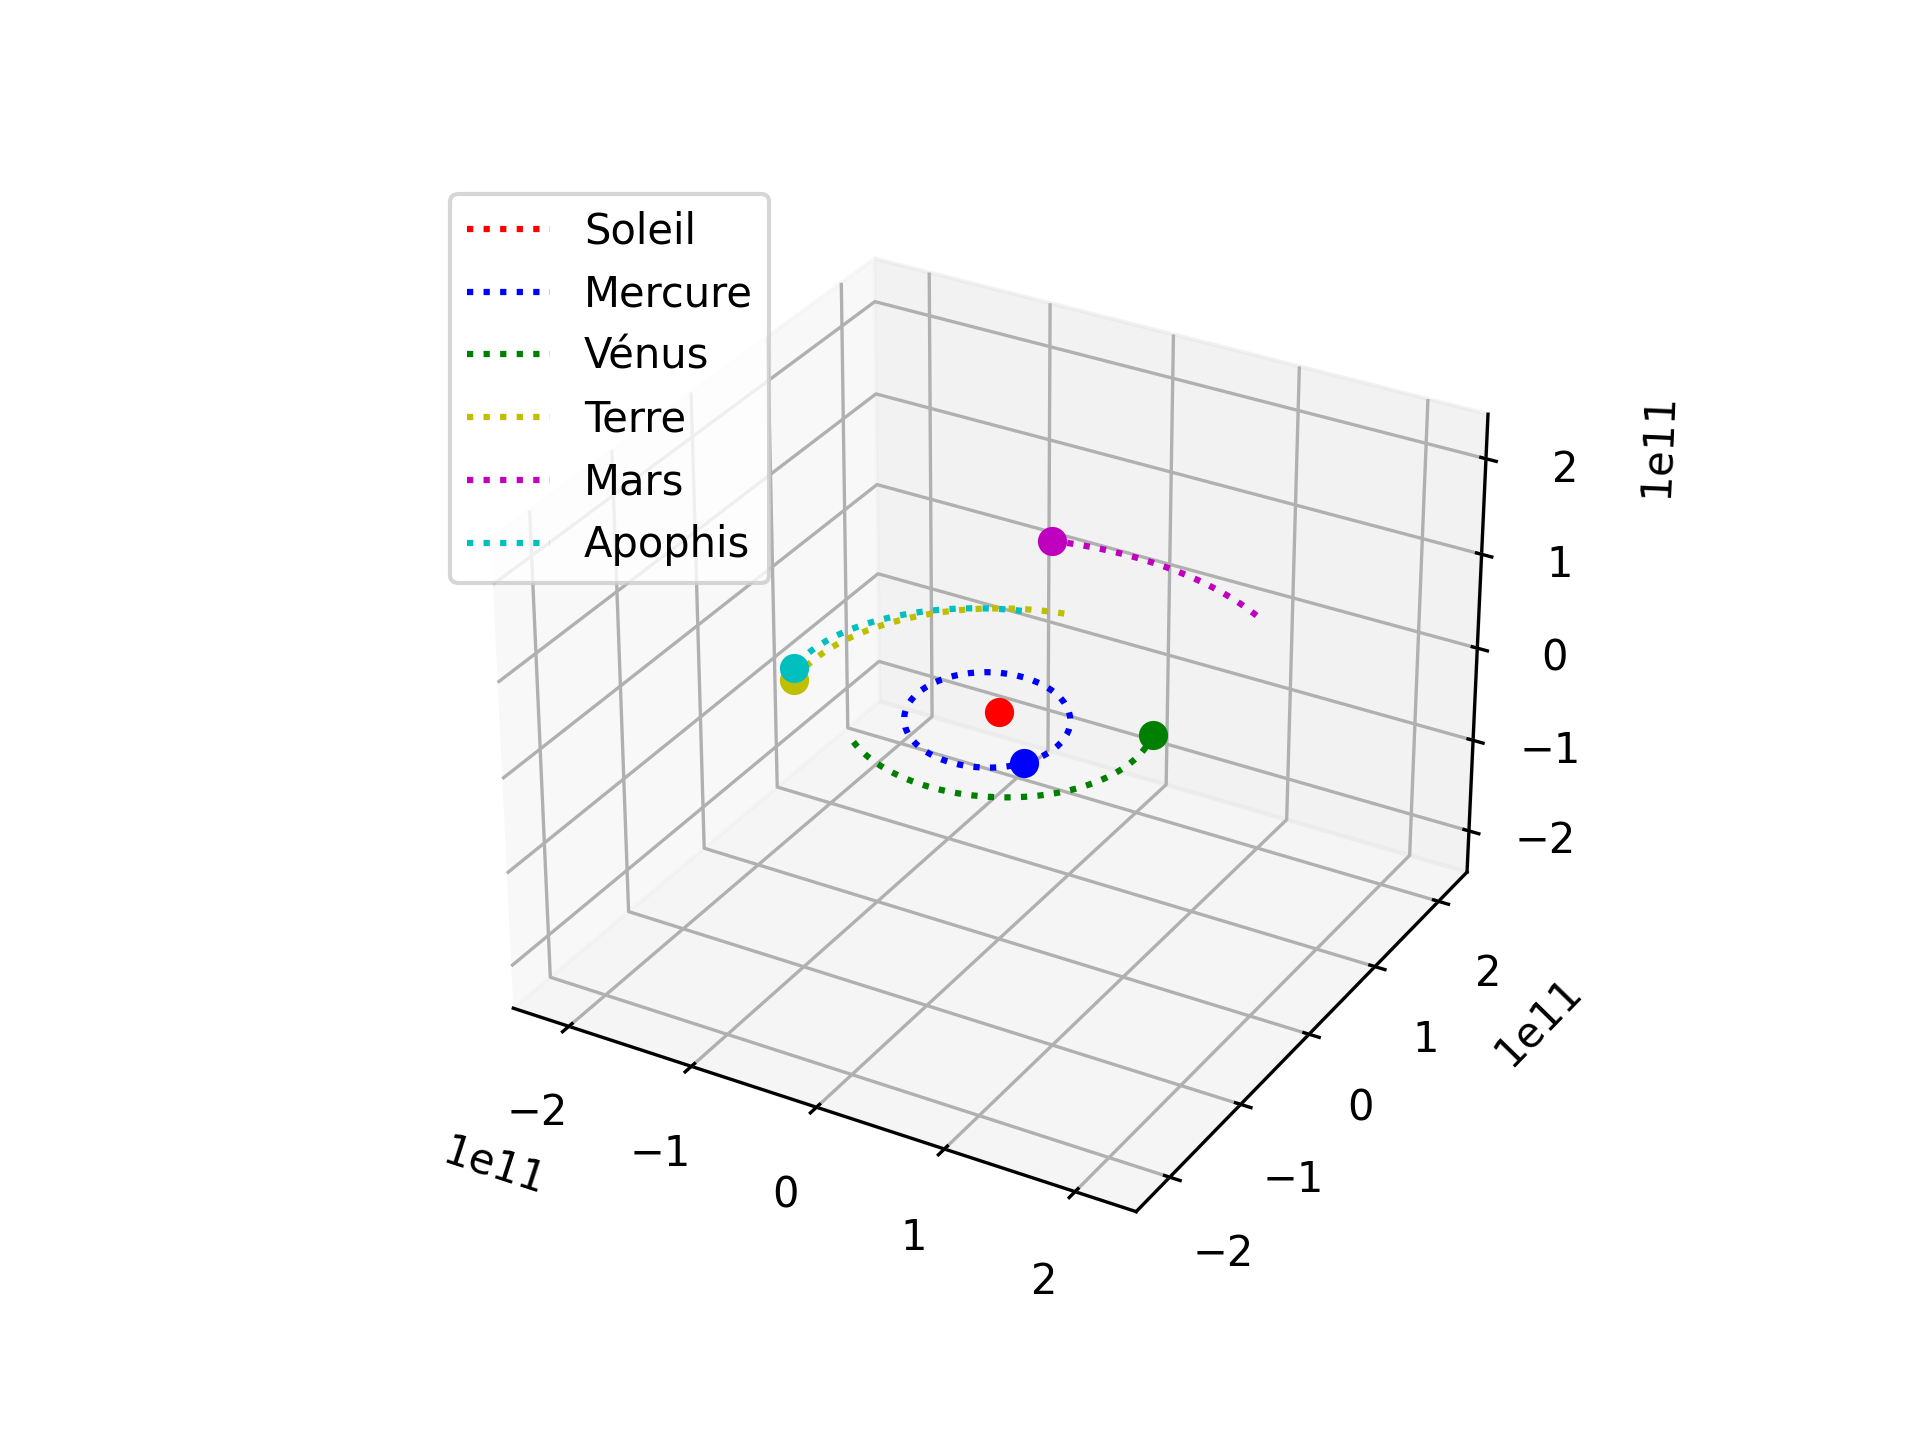
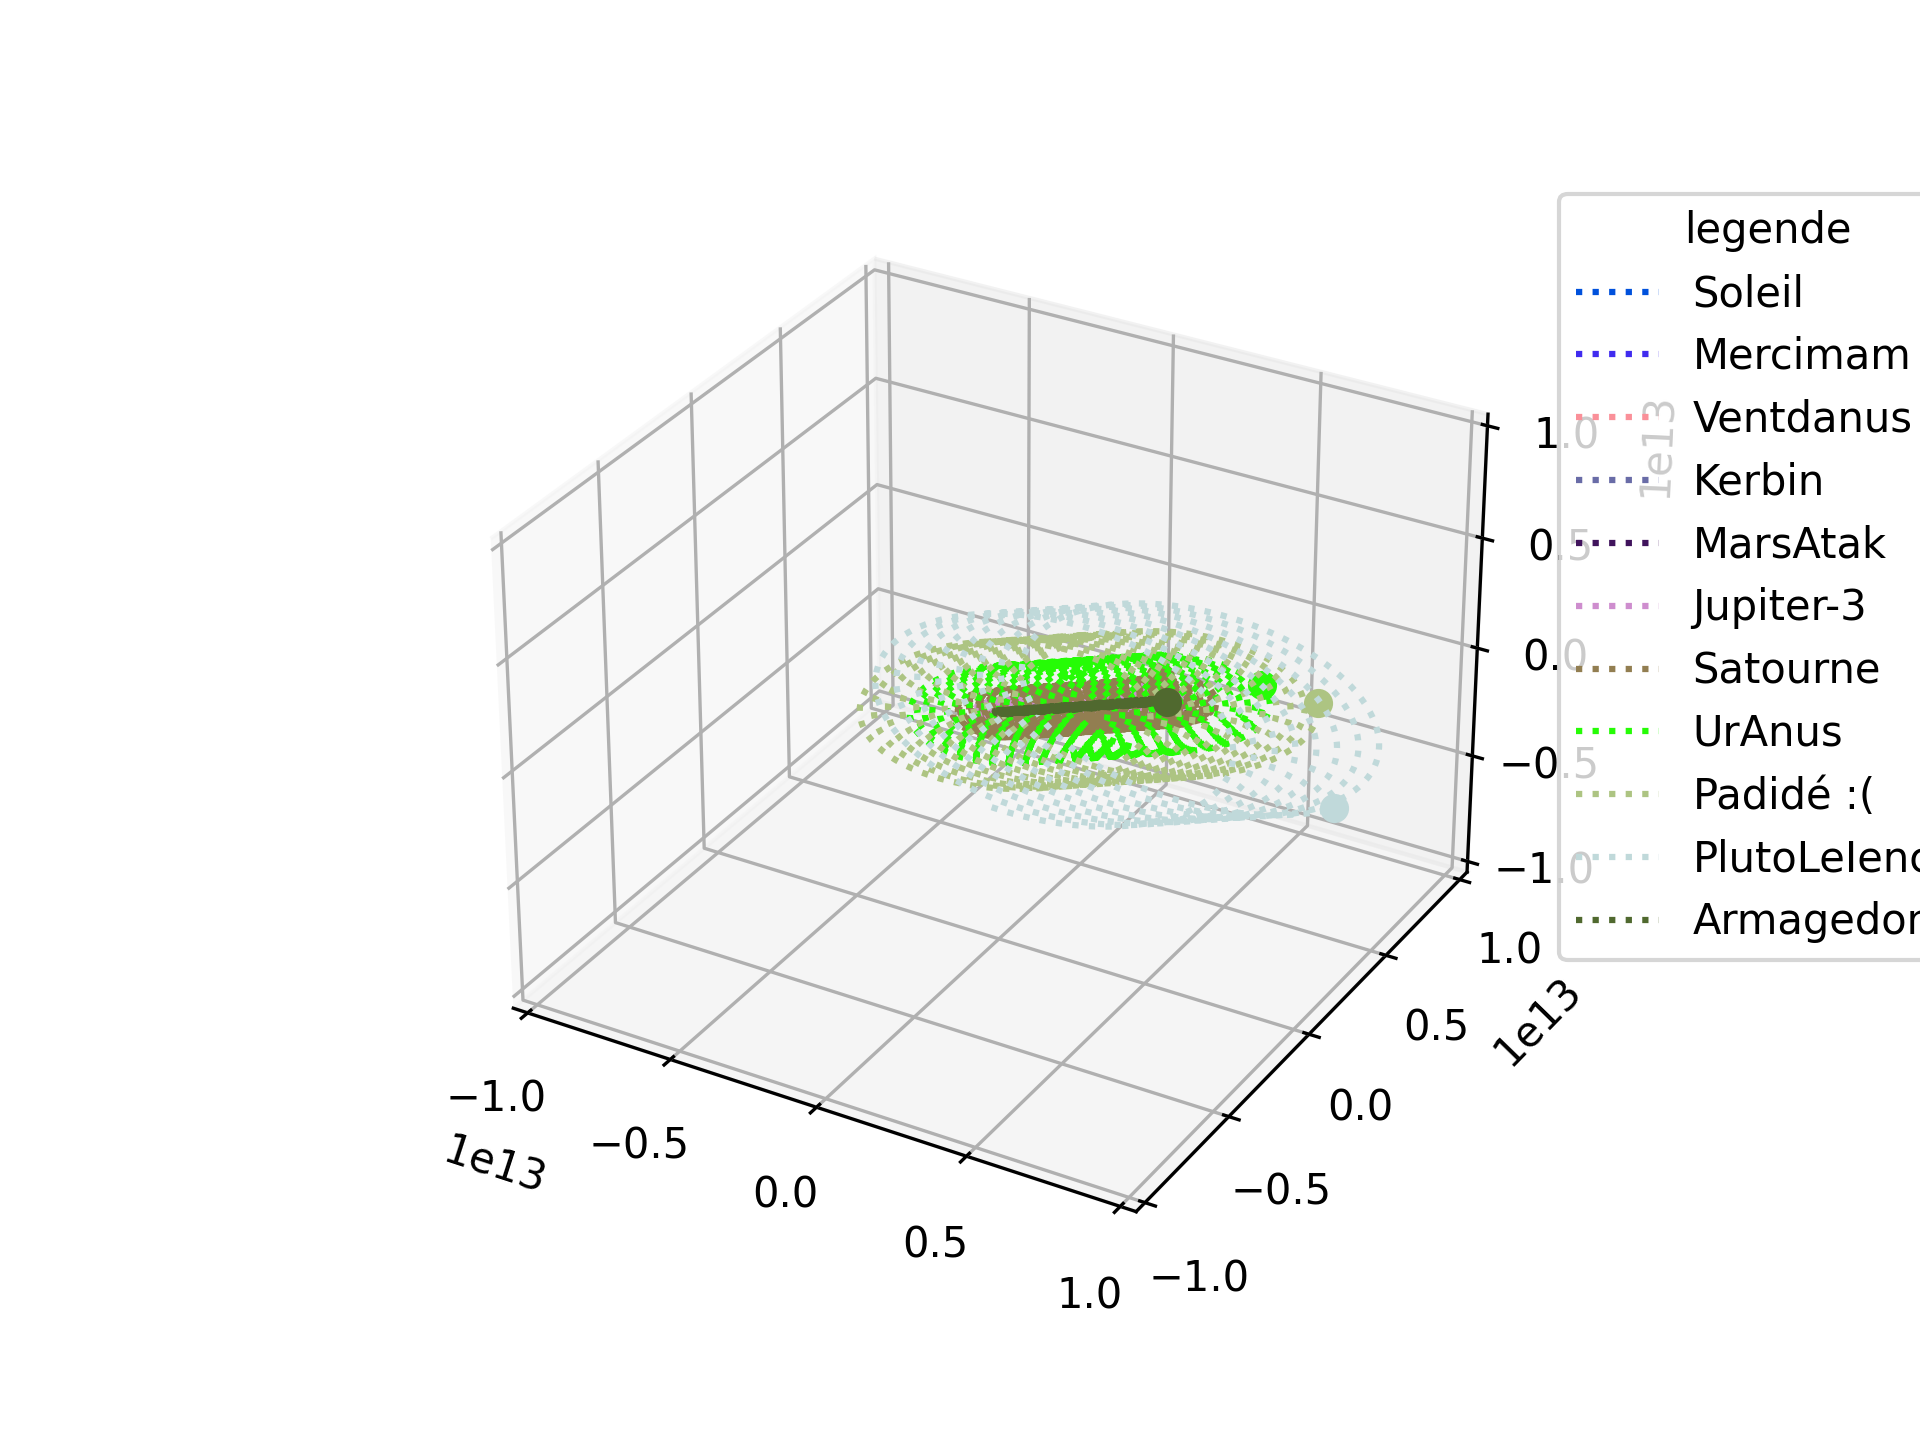
avencement distances + fix step

diff --git a/main.py b/main.py
@@ -16,6 +16,9 @@ class point:
         self.x = x
         self.y = y
         self.z = z
+    
+    def __str__(self):
+        return "({:e} , {:e} , {:e})".format(self.x, self.y, self.z)
 
 class body:
     def __init__(self, location, mass, velocity, name = ""):
@@ -55,62 +58,120 @@ def update_location(bodies, time_step = 1):
         target_body.location.z += target_body.velocity.z * time_step
 
 def compute_gravity_step(bodies, time_step = 1):
-    compute_velocity(bodies, time_step = time_step)
-    update_location(bodies, time_step = time_step)
+    compute_velocity(bodies, time_step )
+    update_location(bodies, time_step)
 
 def plot_output(bodies, outfile = None):
     fig = plot.figure()
-    colours = ['r','b','g','y','m','c','w','r','b','y']
     ax = fig.add_subplot(1,1,1, projection='3d')
     max_range = 0
     i=0 #indice pour les couleurs
     for current_body in bodies: 
+        randcolor = (random.random(),random.random(), random.random())
         max_dim = max(max(current_body["x"]),max(current_body["y"]),max(current_body["z"]))
         if max_dim > max_range:
             max_range = max_dim
-        ax.plot(current_body["x"], current_body["y"], current_body["z"], ':', c = colours[i], label = current_body["name"])        
-        ax.plot(current_body["x"][-1],current_body["y"][-1], current_body["z"][-1], 'o', c = colours[i]) 
+        ax.plot(current_body["x"], current_body["y"], current_body["z"], ':', c = randcolor, label = current_body["name"])        
+        ax.plot(current_body["x"][-1],current_body["y"][-1], current_body["z"][-1], 'o', c = randcolor) 
         i+=1
     
     ax.set_xlim([-max_range,max_range])    
     ax.set_ylim([-max_range,max_range])
     ax.set_zlim([-max_range,max_range])
-    ax.legend()        
+    ax.legend(title='legende', bbox_to_anchor=(1, 1), loc='upper left')
+
 
     if outfile:
         plot.savefig(outfile, dpi=300)
     else:
         plot.show()
 
-def run_simulation(bodies, names = None, time_step = 1, number_of_steps = 10000, report_freq = 100):
+# Calcule la distance minimal entre 2 astres
+def dist(a,b):
+    return math.sqrt(math.pow(a.x-b.x,2)+math.pow(a.y-b.y,2)+math.pow(a.z-b.z,2))
 
+# Calcule une matrice de distances entre tout les astres d'une liste
+def matriceDistance(bodies):
+    matrice = []
+    for body1 in bodies:
+        line = []
+        for body2 in bodies:
+            line.append(dist(body1.location,body2.location))
+        matrice.append(line)
+    return matrice
+
+# Affiche en notation scientifique toutes les distances entre des astres
+def prettyDistance(bodies):
+    matrice = matriceDistance(bodies)
+    for index1,body1 in enumerate(bodies):
+        print( "Distances retaives a l'astre " + body1.name + ':' )
+        for index2,body2 in enumerate(bodies):
+            if index1 != index2:
+                print("     "+body2.name+" : {:e}".format(matrice[index1][index2]))
+        print("\n")
+            
+# retourne un tuple x,y des indexes de la distance la plus faible dans une matrice
+def minDistMatrice(matrice):
+    currentMin = matrice[0][1]
+    tupleIndexes = (0,1)
+    for x in range(len(matrice)):
+        line = matrice[x]
+        for y in range(len(line)):
+            if x!=y and matrice[x][y] < currentMin:
+                currentMin = matrice[x][y]
+                tupleIndexes = (x,y)
+    return tupleIndexes
+
+def run_simulation(bodies, names = None, time_step = 1, number_of_steps = 10000, report_freq = 100):
     #liste pour chaque corps
     body_locations_hist = []
     for current_body in bodies:
         body_locations_hist.append({"x":[], "y":[], "z":[], "name":current_body.name})
-        
+    
+    minMatrice = matriceDistance(bodies)
+    minSimTuple = minDistMatrice(minMatrice)
+    minSim = minMatrice[minSimTuple[0]][minSimTuple[1]]
+
     for i in range(1,number_of_steps):
-        compute_gravity_step(bodies, time_step = 1000)            
+        compute_gravity_step(bodies, time_step)            
         
+        matrice = matriceDistance(bodies)
+        currMinTuple = minDistMatrice(matriceDistance(bodies))
+        currMin = matrice[currMinTuple[0]][currMinTuple[1]]
+        if currMin < minSim:
+            minSim = currMin
+            minSimTuple = currMinTuple
+            minMatrice = matrice
+
         if i % report_freq == 0:
+    
+
             for index, body_location in enumerate(body_locations_hist):
                 body_location["x"].append(bodies[index].location.x)
                 body_location["y"].append(bodies[index].location.y)           
                 body_location["z"].append(bodies[index].location.z)       
+    
+    print("La distance minimal de la simulation est est {:e}".format(minMatrice[minSimTuple[0]][minSimTuple[1]])+" il sagit de la distance entre "+bodies[minSimTuple[0]].name+" et "+bodies[minSimTuple[1]].name )
 
     return body_locations_hist        
             
 #planet data (location (m), mass (kg), velocity (m/s)
-sun = {"location":point(0,0,0), "mass":2e30, "velocity":point(0,0,0)}
-mercury = {"location":point(0,5.7e10,0), "mass":3.285e23, "velocity":point(47000,0,0)}
-venus = {"location":point(0,1.1e11,0), "mass":4.8e24, "velocity":point(35000,0,0)}
-earth = {"location":point(0,1.5e11,0), "mass":6e24, "velocity":point(30000,0,0)}
-mars = {"location":point(0,2.2e11,0), "mass":2.4e24, "velocity":point(24000,0,0)}
-jupiter = {"location":point(0,7.7e11,0), "mass":1e28, "velocity":point(13000,0,0)}
-saturn = {"location":point(0,1.4e12,0), "mass":5.7e26, "velocity":point(9000,0,0)}
-uranus = {"location":point(0,2.8e12,0), "mass":8.7e25, "velocity":point(6835,0,0)}
-neptune = {"location":point(0,4.5e12,0), "mass":1e26, "velocity":point(5477,0,0)}
-pluto = {"location":point(0,3.7e12,0), "mass":1.3e22, "velocity":point(4748,0,0)}
+bodiesSpec = [
+    { "id": 0, "name" : "Soleil" , "mass":2e30},
+    { "id": 1, "name" : "Mercimam" , "mass":3.285e23},
+    { "id": 2, "name" : "Ventdanus" , "mass":4.8e24},
+    { "id": 3, "name" : "Kerbin" , "mass":6e24},
+    { "id": 4, "name" : "MarsAtak" , "mass":2.4e24},
+    { "id": 5, "name" : "Jupiter-3" , "mass":1e28},
+    { "id": 6, "name" : "Satourne" , "mass":5.7e26},
+    { "id": 7, "name" : "UrAnus" , "mass":8.7e25},
+    { "id": 8, "name" : "Padidé :(" , "mass":1e26},
+    { "id": 9, "name" : "PlutoLeIench" , "mass":1.3e22},
+    { "id" : "apophis", "name" : "Armagedon" , "mass":5e10}
+]
+
+locationConstant = 1.5e11
+velocityConstant = 1731460
 
 if __name__ == "__main__":
     
@@ -118,33 +179,36 @@ if __name__ == "__main__":
     sim_start_date = "2021-01-01"
     time = Time(sim_start_date).jd
     
+    bodies = []
 
-    obj1 = Horizons(id=1, location="@sun", epochs=time, id_type='id').vectors()
-    obj2 = Horizons(id=2, location="@sun", epochs=time, id_type='id').vectors()
-    obj3 = Horizons(id=3, location="@sun", epochs=time, id_type='id').vectors()
-    obj4 = Horizons(id=4, location="@sun", epochs=time, id_type='id').vectors()
-    obj5 = Horizons(id=5, location="@sun", epochs=time, id_type='id').vectors()
-    obj6 = Horizons(id=6, location="@sun", epochs=time, id_type='id').vectors()
-    obj7 = Horizons(id=7, location="@sun", epochs=time, id_type='id').vectors()
-    obj8 = Horizons(id=8, location="@sun", epochs=time, id_type='id').vectors()
-    obj9 = Horizons(id='apophis', location="@sun", epochs=time, id_type='id').vectors()
+    for bodySpec in bodiesSpec:
+       
+        obj = Horizons(id=bodySpec["id"], location="@sun", epochs=time, id_type='id').vectors()
+        bodies.append(
+            body( 
+                location=point(
+                    np.double(obj['x']*locationConstant),
+                    np.double(obj['y']*locationConstant),
+                    np.double(obj['z']*locationConstant)),
+                mass = bodySpec["mass"],
+                velocity = point(
+                    np.double(obj['vx']*velocityConstant),
+                    np.double(obj['vy']*velocityConstant),
+                    np.double(obj['vz']*velocityConstant)),
+                name = bodySpec["name"]
+            )
+        )
 
-    #liste planète
-    bodies = [
-        body( location = sun["location"], mass = sun["mass"], velocity = sun["velocity"], name = "Soleil"),
+   
+    print(prettyDistance(bodies))
 
-        body( location=point(np.double(obj1['x']*1.5e11), np.double(obj1['y']*1.5e11),np.double(obj1['z']*1.5e11)), mass = mercury["mass"], velocity = point(np.double(obj1['vx']*1731460), np.double(obj1['vy']*1731460), np.double(obj1['vz']*1731460)), name = "Mercure"),
-        body( location=point(np.double(obj2['x']*1.5e11), np.double(obj2['y']*1.5e11),np.double(obj2['z']*1.5e11)), mass = venus["mass"], velocity = point(np.double(obj2['vx']*1731460), np.double(obj2['vy']*1731460), np.double(obj2['vz']*1731460)), name = "Vénus"),
-        body( location=point(np.double(obj3['x']*1.5e11), np.double(obj3['y']*1.5e11),np.double(obj3['z']*1.5e11)), mass = earth["mass"], velocity = point(np.double(obj3['vx']*1731460), np.double(obj3['vy']*1731460), np.double(obj3['vz']*1731460)), name = "Terre"),
-        body( location=point(np.double(obj4['x']*1.5e11), np.double(obj4['y']*1.5e11),np.double(obj4['z']*1.5e11)), mass = mars["mass"], velocity = point(np.double(obj4['vx']*1731460), np.double(obj4['vy']*1731460), np.double(obj4['vz']*1731460)), name = "Mars"),
-        #body( location=point(np.double(obj5['x']*1.5e11), np.double(obj5['y']*1.5e11),np.double(obj5['z']*1.5e11)), mass = jupiter["mass"], velocity = point(np.double(obj5['vx']*1731460), np.double(obj5['vy']*1731460), np.double(obj5['vz']*1731460)), name = "Jupiter"),
-        #body( location=point(np.double(obj6['x']*1.5e11), np.double(obj6['y']*1.5e11),np.double(obj6['z']*1.5e11)), mass = saturn["mass"], velocity = point(np.double(obj6['vx']*1731460), np.double(obj6['vy']*1731460), np.double(obj6['vz']*1731460)), name = "Saturne"),
-        #body( location=point(np.double(obj7['x']*1.5e11), np.double(obj7['y']*1.5e11),np.double(obj7['z']*1.5e11)), mass = uranus["mass"], velocity = point(np.double(obj7['vx']*1731460), np.double(obj7['vy']*1731460), np.double(obj7['vz']*1731460)), name = "uranus"),
-        #body( location=point(np.double(obj8['x']*1.5e11), np.double(obj8['y']*1.5e11),np.double(obj8['z']*1.5e11)), mass = neptune["mass"], velocity = point(np.double(obj8['vx']*1731460), np.double(obj8['vy']*1731460), np.double(obj8['vz']*1731460)), name = "neptune"),
-        body( location=point(np.double(obj9['x']*1.5e11), np.double(obj9['y']*1.5e11),np.double(obj9['z']*1.5e11)), mass = 5e10, velocity = point(np.double(obj9['vx']*1731460), np.double(obj9['vy']*1731460), np.double(obj9['vz']*1731460)), name = "Apophis"),
-        ]
+    matrice = matriceDistance(bodies)
+    minDist = minDistMatrice(matrice)
 
+    print(bodies[0].velocity)
+
+    print("La distance minimal est {:e}".format(matrice[minDist[0]][minDist[1]])+" il sagit de la distance entre "+bodies[minDist[0]].name+" et "+bodies[minDist[1]].name )
+
+    motions = run_simulation(bodies, time_step = 1000, number_of_steps = 10000, report_freq = 100)
     
-    
-    motions = run_simulation(bodies, time_step = 100, number_of_steps = 8000, report_freq = 100)
     plot_output(motions, outfile = 'orbits.png')
